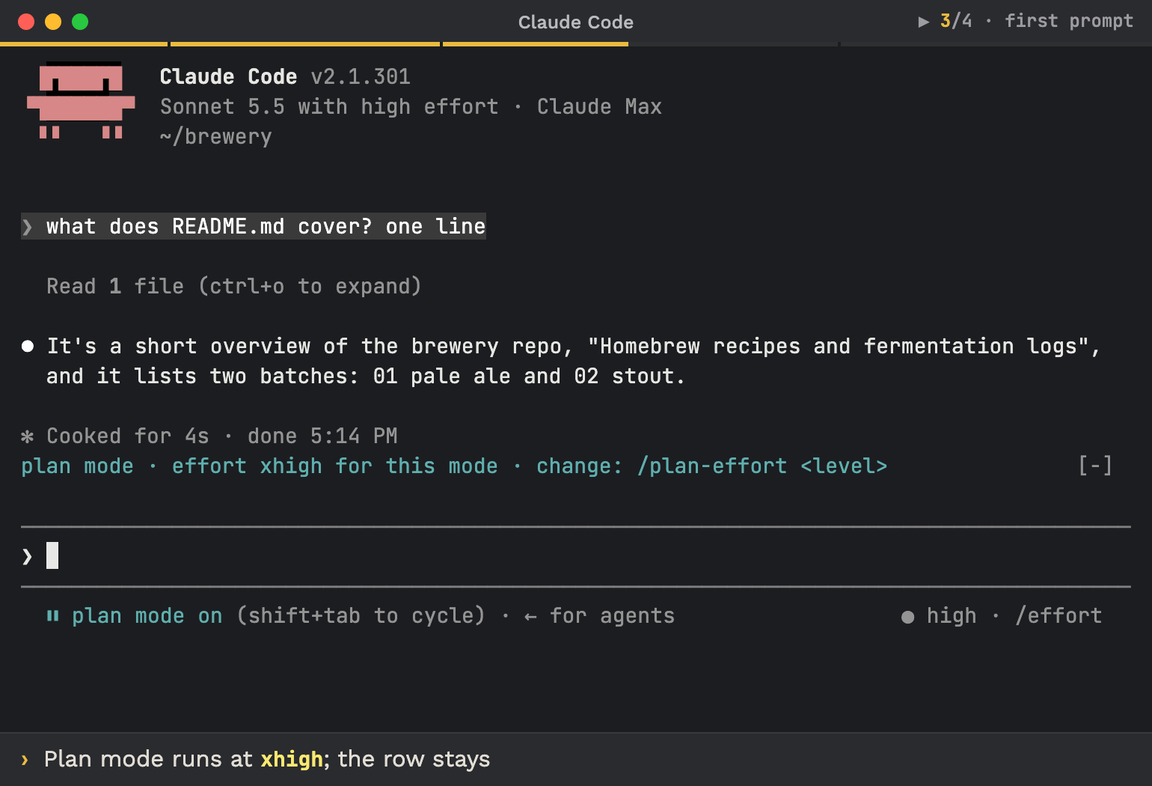
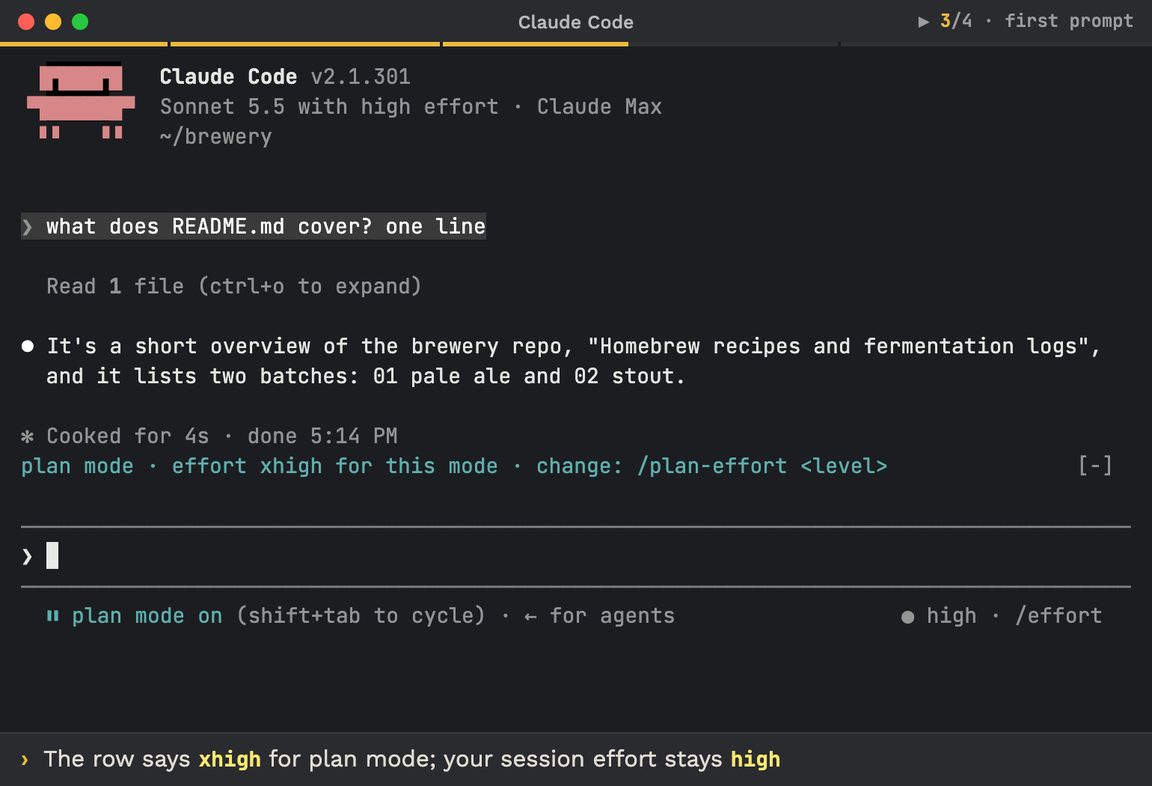
fix(mods): lighter bottle GIFs, frame glitches removed, captions match frames

Changed region(s): [[0.0312, 0.9466, 0.6875, 0.9771]]

diff --git a/assets/brewmods/src/render.html b/assets/brewmods/src/render.html
@@ -78,10 +78,12 @@ body { width: 1200px; font: 400 16px/1.5 "Work Sans", system-ui, sans-serif; }
   const esc = (s) => s.replace(/&/g, '&amp;').replace(/</g, '&lt;').replace(/>/g, '&gt;');
   const TAU = Math.PI * 2;
   const last = (list, t) => list.reduce((k, e, i) => (t >= (Array.isArray(e) ? e[0] : e.at) ? i : k), -1);
+  // in-range t untouched: ((t % L) + L) % L turns 14.4 into 14.3999…, drawing every change point a frame late
+  const wrap = (t, L) => (t >= 0 && t < L ? t : ((t % L) + L) % L);
   const isBottle = qs.get('bottle') === '1';
 
   // ---------- fermenter: glass carboy, amber wort, krausen, airlock (README bottle only) ----------
-  // cfg: loop s, fps, intensity(t), blips (airlock times), label(t) -> { word, shown, wipe 0..1 }
+  // cfg: loop s, fps, intensity(t), blips (airlock times), word (tape label text), labelWidth
   function fermenter(fpre, cfg) {
     const FC = 60, FR = 47, C = 30, RAMP_W = ['·', '-', '~', '~', '=', '≈', '≈', '*'], LOOP = cfg.loop, W0 = TAU / LOOP;
     const GL = new Array(FC * FR).fill(''), GK = new Array(FC * FR).fill(''), IN = [];
@@ -105,10 +107,12 @@ body { width: 1200px; font: 400 16px/1.5 "Work Sans", system-ui, sans-serif; }
     for (let c = C - 4; c <= C + 4; c++) gput(22, c, c === C ? '|' : '█', c === C ? 'gb' : 'ru');
     for (let r = 34; r <= 41; r++) gput(r, C - 16, '¦', 'gh');
     gput(29, C + 10, '\\', 'gh'); gput(30, C + 12, '\\', 'gh');
-    const SURF = 67.4, BOT = 89, LABW = cfg.labelWidth;
+    const SURF = 67.4, BOT = 89, LABW = cfg.labelWidth, GRAIN = 3;
 
     return function ferment(t) {
-      const I = cfg.intensity(t), Ic = Math.min(1, I), fr = Math.floor(t * cfg.fps);
+      // gr = grain tick: wort/krausen/trub/airlock noise re-rolls every GRAIN frames; waves at 0.4-0.6 Hz, not
+      // near the 3 Hz Nyquist of 6 fps, where they flickered every cell each frame (bottle GIF bytes)
+      const I = cfg.intensity(t), Ic = Math.min(1, I), gr = Math.floor(Math.floor(t * cfg.fps) / GRAIN);
       const head = 3.2 + 5 * Ic + 1.6 * Math.max(0, I - 1) / .35;
       const ch = GL.slice(), cl = GK.slice();
       const set = (r, c, s, k) => { if (r >= 0 && r < FR && c >= 0 && c < FC) { ch[r * FC + c] = s; cl[r * FC + c] = k; } };
@@ -117,18 +121,18 @@ body { width: 1200px; font: 400 16px/1.5 "Work Sans", system-ui, sans-serif; }
         for (let c = a; c <= b; c++) {
           if (GL[r * FC + c]) continue;
           const y = r * 2 + 1, x = c - C, nx = x / 18;
-          const surf = SURF + .45 * Math.sin(c * .5 + t * W0 * 15);
-          const top = surf - head - 1.1 * rnd(c * 3.1) - .9 * Math.sin(c * .7 + t * W0 * 8 + rnd(c) * 6) - .9 * Ic * rnd(c + 50);
+          const surf = SURF + .45 * Math.sin(c * .5 + t * W0 * 3);
+          const top = surf - head - 1.1 * rnd(c * 3.1) - .9 * Math.sin(c * .7 + t * W0 * 2 + rnd(c) * 6) - .9 * Ic * rnd(c + 50);
           if (y >= surf) {
             const depth = clamp((y - surf) / (BOT - surf));
             let l = (.52 + .4 * (1 - nx * nx) - .14 * nx) * (1 - .4 * depth);
-            l += .1 * Math.sin(y * .34 - t * W0 * 12 + nx * 2.2) + .12 * Ic * (1 - depth) + (rnd(c * 7.3 + r * 31 + fr * 13.1) - .5) * .1;
+            l += .1 * Math.sin(y * .34 - t * W0 * 3 + nx * 2.2) + .12 * Ic * (1 - depth) + (rnd(c * 7.3 + r * 31 + gr * 13.1) - .5) * .1;
             l = clamp(l);
-            if (r >= 44) set(r, c, rnd(c + fr * 3) < .5 ? '%' : '#', 'tr');
+            if (r >= 44) set(r, c, rnd(c + gr * 3) < .5 ? '%' : '#', 'tr');
             else if (y - surf < 1.6) set(r, c, '~', 'w4');
             else set(r, c, RAMP_W[Math.min(7, Math.floor(l * 8))], l < .34 ? 'w1' : l < .56 ? 'w2' : l < .8 ? 'w3' : 'w4');
           } else if (y >= top - .8) {
-            const n = rnd(c * 17.3 + r * 131.7 + Math.floor(t * 3) * 7), d = y - top;
+            const n = rnd(c * 17.3 + r * 131.7 + gr * 7), d = y - top;
             const s = d < .6 ? (n < .5 ? '·' : '°') : d < 2 ? (n < .5 ? 'o' : '°') : n < .4 ? 'O' : n < .9 ? 'o' : '@';
             set(r, c, s, d < 1.2 ? 'f3' : surf - y < 1.8 ? 'f1' : 'f2');
           }
@@ -147,7 +151,7 @@ body { width: 1200px; font: 400 16px/1.5 "Work Sans", system-ui, sans-serif; }
       for (const b of cfg.blips) { const dt = (t - b + LOOP) % LOOP; if (dt < .55) lift = Math.max(lift, Math.sin(Math.PI * dt / .55)); }
       const bell = lift > .66 ? [15, '_'] : lift > .25 ? [16, '-'] : [16, '_'];
       for (let c = C - 2; c <= C + 2; c++) set(bell[0], c, bell[1], 'gb');
-      for (const c of [C - 3, C - 2, C - 1, C + 1, C + 2, C + 3]) set(18, c, lift > .25 && c < C ? '~' : (fr + c) % 4 ? '≈' : '~', 'aw');
+      for (const c of [C - 3, C - 2, C - 1, C + 1, C + 2, C + 3]) set(18, c, lift > .25 && c < C ? '~' : (gr + c) % 4 ? '≈' : '~', 'aw');
       if (lift > .25) for (const c of [C + 1, C + 2, C + 3]) set(17, c, '~', 'aw');
       for (const [bi, b] of cfg.blips.entries()) {
         const dt = (t - b + LOOP) % LOOP;
@@ -160,12 +164,11 @@ body { width: 1200px; font: 400 16px/1.5 "Work Sans", system-ui, sans-serif; }
         }
       }
       // masking-tape label: the story's token written on it
-      const LR = 39, L0 = C - Math.floor(LABW / 2), lab = cfg.label(t);
+      const LR = 39, L0 = C - Math.floor(LABW / 2);
       for (let k = 0; k < LABW; k++) {
-        const s = k < lab.shown && k < lab.word.length ? lab.word[k] : ' ';
+        const s = k < cfg.word.length ? cfg.word[k] : ' ';
         set(LR, L0 + k, s === ' ' ? '·' : s, s === ' ' ? 'lb0' : 'lb');
       }
-      if (lab.wipe > 0) for (let k = 0; k < LABW; k++) if (rnd(k + fr) < lab.wipe) set(LR, L0 + k, '·', 'lb0');
       let html = '';
       for (let r = 3; r < FR; r++) {
         let cur = null;
@@ -189,10 +192,10 @@ body { width: 1200px; font: 400 16px/1.5 "Work Sans", system-ui, sans-serif; }
     $('bottle').setAttribute('aria-label', `ASCII glass fermenter bubbling, label "${B.label}"`);
     const blips = Array.from({ length: B.blips }, (_, i) => +(i * LOOP / B.blips + .2).toFixed(3));
     const ferment = fermenter($('ferm'), { loop: LOOP, fps: B.fps, blips, labelWidth: word.length + 2,
-      intensity: (t) => .82 + .18 * Math.sin(TAU * t / LOOP), label: () => ({ word, shown: word.length, wipe: 0 }) });
-    window.hero = { render: (t) => ferment(((t % LOOP) + LOOP) % LOOP), fps: B.fps, loop: LOOP };
+      intensity: (t) => .82 + .18 * Math.sin(TAU * t / LOOP), word });
+    window.hero = { render: (t) => ferment(wrap(t, LOOP)), fps: B.fps, loop: LOOP };
     const freeze = qs.get('t');
-    ferment(freeze !== null ? parseFloat(freeze) % LOOP : 0);
+    ferment(freeze !== null ? wrap(parseFloat(freeze), LOOP) : 0);
     if (freeze !== null) return;
     const t0 = performance.now(); let lastF = -1;
     (function tick(now) {
@@ -248,52 +251,65 @@ body { width: 1200px; font: 400 16px/1.5 "Work Sans", system-ui, sans-serif; }
   const isRule = (segs) => /^─{8,}$/.test(plain(segs).trim());
   // prompt row = the last `❯` row that sits under a rule
   const promptRow = (lines) => { for (let r = lines.length - 1; r > 0; r--) if (plain(lines[r]).startsWith('❯') && isRule(lines[r - 1])) return r; return -1; };
+  // captured prompt row cut to `len` chars, styles kept; a styled token cut midway is drawn plain until complete
+  function cutRow(segs, len) {
+    const out = [];
+    let col = 0;
+    for (const [text, style] of segs) {
+      const cs = [...text], k = Math.min(cs.length, len - col);
+      if (k <= 0) break;
+      out.push([cs.slice(0, k).join(''), k < cs.length ? '' : style]);
+      col += k;
+    }
+    return out;
+  }
 
   function screenAt(t) {
     const i = last(S.screens, t), [, name, beat] = S.screens[Math.max(0, i)];
     let ov = null;
     for (const ty of S.typing) {
-      const n = Math.min([...ty.text].length, (ty.from || 0) + Math.floor((t - ty.at) * ty.cps) + 1);
+      // 1e-6: (14.5 - 14.4) * 40 = 3.99…, one char short at an exact frame boundary
+      const n = Math.min([...ty.text].length, (ty.from || 0) + Math.floor((t - ty.at) * ty.cps + 1e-6) + 1);
       const nextScreen = S.screens.find((s) => s[0] > ty.at && s[1] !== ty.on);
       if (t >= ty.at && (!nextScreen || t < nextScreen[0])) ov = { on: ty.on, text: [...ty.text].slice(0, n).join('') };
     }
     return ov ? { name: ov.on, beat: (S.screens.find((s) => s[1] === ov.on) || [, , beat])[2], typed: ov.text } : { name, beat, typed: null };
   }
 
-  let shownKey = '', shownRow = ROWS - 4;
+  // keycap row: prompt row of the screen shown at t, ROWS - 4 when it has none (dialog, TODO screen)
+  const rowAt = (t) => { const sc = D[screenAt(t).name], pr = sc && typeof sc === 'object' ? promptRow(sc.lines) : -1; return pr < 0 ? ROWS - 4 : pr; };
+
+  let shownKey = '';
   function terminal(t) {
     const st = screenAt(t), sc = D[st.name];
     const key = st.name + '|' + st.typed;
-    if (key === shownKey) return shownRow;
+    if (key === shownKey) return;
     shownKey = key;
-    let html = '', pr = -1;
+    let html = '';
     if (!sc || typeof sc === 'string') {
       const mark = typeof sc === 'string' ? sc : `TODO-CAPTURE:${st.beat}`;
-      pr = ROWS - 4;
       for (let r = 0; r < ROWS; r++) {
         if (r === 10) html += `<div class="row todo">${esc(mark)}  ·  screen ${esc(st.name)}</div>`;
         else if (r === 11) html += '<div class="row todo-dim">capture it: bash assets/brewmods/src/capture.sh &lt;pane&gt; ' + esc(st.name) + '</div>';
-        else if (r === pr) html += rowHtml([['❯ ' + (st.typed ?? ''), '']], st.typed !== null ? 2 + [...st.typed].length : -1);
+        else if (r === ROWS - 4) html += rowHtml([['❯ ' + (st.typed ?? ''), '']], st.typed !== null ? 2 + [...st.typed].length : -1);
         else html += '<div class="row"></div>';
       }
     } else {
-      pr = promptRow(sc.lines);
-      const cur = sc.cursor && sc.cursor[2] ? sc.cursor : null;
+      const pr = promptRow(sc.lines), cur = sc.cursor && sc.cursor[2] ? sc.cursor : null;
       sc.lines.forEach((segs, r) => {
-        if (st.typed !== null && r === pr) html += rowHtml([['❯ ' + st.typed, '']], 2 + [...st.typed].length);
+        // typing: the capture's own prompt row (= ❯ + typed text, gated by --check) cut to the typed prefix
+        if (st.typed !== null && r === pr) { const len = 2 + [...st.typed].length; html += rowHtml(cutRow(segs, len), len); }
         else html += rowHtml(segs, st.typed === null && cur && cur[1] === r ? cur[0] : -1);
       });
     }
     $('term').innerHTML = html;
-    shownRow = pr < 0 ? ROWS - 4 : pr;
-    return shownRow;
   }
 
   // ---------- title bar: chapter label, progress, ⏩ chip; caption bar; keycap ----------
   const fill = $('progFill'), chap = $('chap'), chip = $('chip'), cap = $('cap'), capText = $('capText'), kbd = $('kbd');
   S.chapters.slice(1).forEach(([s]) => { const g = document.createElement('div'); g.className = 'gap'; g.style.left = (s / END * 100) + '%'; $('prog').appendChild(g); });
   let shownChap = '', shownCap = null, shownKbd = '';
-  function chrome(t, full, row) {
+  function chrome(t, full) {
     const i = Math.max(0, last(S.chapters, t)), done = !full && t >= END;
     fill.style.width = (full ? 100 : clamp(t / END) * 100).toFixed(2) + '%';
     fill.style.opacity = !full && t > LOOP - .3 ? ((LOOP - t) / .3).toFixed(3) : 1;
@@ -310,12 +326,15 @@ body { width: 1200px; font: 400 16px/1.5 "Work Sans", system-ui, sans-serif; }
     const kd = k ? esc(k.glyph) + (k.word ? '<small>' + esc(k.word) + '</small>' : '') : '';
     if (kd !== shownKbd) { shownKbd = kd; kbd.innerHTML = kd; }
     kbd.style.opacity = k ? (1 - span(t, k.at + .55, k.at + .8)).toFixed(3) : 0;
+    if (!k) return;
+    // pinned to the screen at the key press for the cap's whole 0.8 s life (no jump when the screen changes)
+    const row = rowAt(k.at);
     kbd.style.left = (W - 18 - kbd.offsetWidth) + 'px';
     kbd.style.top = Math.min(TB + TERM_H - 46, Math.max(TB + 4, TB + PADT + row * LH + LH / 2 - 21)) + 'px';
   }
 
   let full = false;
-  function frame(t) { t = ((t % LOOP) + LOOP) % LOOP; chrome(t, full, terminal(t)); }
+  function frame(t) { t = wrap(t, LOOP); terminal(t); chrome(t, full); }
   window.hero = { render: frame, fps: FPS, loop: LOOP, steps: S.chapters.map((s) => [s[0], s[1]]) };
   const freeze = qs.get('t'), reduce = matchMedia('(prefers-reduced-motion: reduce)').matches;
   const still = freeze !== null || reduce, TS = freeze !== null ? parseFloat(freeze) : S.still;

diff --git a/assets/brewmods/src/placeholders.story.js b/assets/brewmods/src/placeholders.story.js
@@ -2,7 +2,7 @@
 // Keys = macOS keycaps (glyph + on-screen word); record-gifs.mjs --check holds them to its allow-list and the facts below. Times in s.
 window.PH_STORY = {
   term: { cols: 88, rows: 30 },
-  aria: 'Claude Code terminal recorded from a real session: typing ++ opens the placeholder list, Up picks ++r and Tab inserts it; the band above the prompt shows the lines Claude receives; Enter sends and Claude reviews the diff by the ++r rules: a finding at brew.js:11, reproduced, then fixed with a test. /placeholders global add ++db: always use the staging DB saves a new placeholder after one question. In plan mode the caret on ++db shows its text, Enter sends and Claude answers "Run it against the staging DB, per your ++db rule". Then ++db ++m in one prompt: the caret on ++m shows its text plus the teal "plan mode adds:" part; adding ++/ turns placeholders off so the message is sent exactly as typed',
+  aria: 'Claude Code terminal recorded from a real session: typing ++ opens the placeholder list, Up picks ++r and Tab inserts it; the band above the prompt shows the lines Claude receives; Enter sends and Claude reviews the diff by the ++r rules: a finding at brew.js:11, reproduced, then fixed with a test. /placeholders global add ++db: always use the staging DB saves a new placeholder after one question. In plan mode the caret on ++db shows its text, Enter sends and Claude answers "Run it against the staging DB, as your ++db rule says." Then ++db ++m in one prompt: the caret on ++m shows its text plus the teal "plan mode adds:" part; adding ++/ turns placeholders off so the message is sent exactly as typed',
   loop: 35.8, end: 35.0, fps: 10, still: 29.5,
   chapters: [[0, 'pick'], [3.6, 'see it'], [7.2, 'send'], [13.8, 'add your own'], [19.0, 'plan mode'], [26.4, 'two tokens'], [31.8, '++/']],
   // [from, screen, beat]: the captured screen shown from `from` on; beat names the TODO-CAPTURE slot
@@ -34,12 +34,12 @@ window.PH_STORY = {
     [31.8, 'h-23-esc', 'escape'],
     [35.2, 'h-00-start', 'pick'],
   ],
-  // prompt-row overlay while typing: `on` = capture after the typed text, prompt row cut to the typed prefix; `from` = chars already typed.
-  // ++db, ++m and ++/ land as whole captures (h-17-qdb, h-21-pdb, h-22-pm, h-23-esc): the band changes only once a token is complete
+  // typing: `on` = capture after the typed text, its prompt row cut to the typed prefix; `from` = chars already typed. A token lands whole (band changes
+  // only once complete): ++db/++m/++/ as captures (h-17-qdb, h-21-pdb, h-22-pm, h-23-esc), or from: 28 (`add ++db` at once over h-09-typed's ++db band)
   typing: [
     { at: 0.3, text: 'review the diff +', cps: 16, on: 'h-01-plus' },
     { at: 13.8, text: '/placeholders global add', cps: 40, on: 'h-08-cmd' },
-    { at: 14.4, text: '/placeholders global add ++db: always use the staging DB', from: 24, cps: 40, on: 'h-09-typed' },
+    { at: 14.4, text: '/placeholders global add ++db: always use the staging DB', from: 28, cps: 40, on: 'h-09-typed' },
     { at: 20.2, text: 'which DB should I run the migration against? one line ', cps: 40, on: 'h-16-q' },
     { at: 26.4, text: 'plan the users table migration ', cps: 40, on: 'h-20-plan' },
   ],
@@ -55,7 +55,7 @@ window.PH_STORY = {
     { at: 19.6, glyph: '⇧⇥', word: 'shift+tab' },
     { at: 23.0, glyph: '⏎', word: 'enter' },
   ],
-  // compressed spans: title-bar chip `⏩ <factor>x`; factor = real seconds in the span (session transcript timestamps) / shown seconds.
+  // compressed spans: title-bar chip `⏩ <factor>x`; factor = real seconds in the span (transcript rows: placeholders.captures/timings.txt) / shown seconds.
   // send 14.51 s (prompt 16:20:59.540 -> text 16:21:14.049; h-06b-repro at ~7.3 s), dialog 3.31 s, save 2.83 s (answer -> text), plan-mode answer 4.67 s; spans start 0.2-0.4 s after Enter
   skips: [
     { at: 7.6, until: 9.6, factor: 7.1 },

diff --git a/assets/brewmods/src/plan-effort.story.js b/assets/brewmods/src/plan-effort.story.js
@@ -35,7 +35,7 @@ window.PH_STORY = {
     [1.6, '<k>⇧⇥</k> once: accept edits'],
     [3.2, '<k>⇧⇥</k> again: plan mode; no row until the first prompt'],
     [8.4, '<k>⏎</k>: toast, and the teal plan-mode row above the prompt'],
-    [11.2, 'Plan mode runs at <k>xhigh</k>; the row stays'],
+    [10.2, 'The row says <k>xhigh</k> for plan mode; your session effort stays <k>high</k>'],
     [16, '<k>⇧⇥</k> out of plan mode: the row is gone'],
     [22, ''],
     [22.2, 'Manual mode, session effort <k>high</k>'],
@@ -50,6 +50,8 @@ window.PH_STORY = {
     { screen: 'pe-4-toast', has: 'brewmod-plan-effort: plan mode · effort raised to xhigh', why: 'toast (register.ts), engine adds the plugin name' },
     { screen: 'pe-4-toast', has: 'plan mode · effort xhigh for this mode · change: /plan-effort <level>', why: 'row (register.ts)' },
     { screen: 'pe-5-done', has: 'plan mode · effort xhigh for this mode · change: /plan-effort <level>', why: 'row stays after the turn' },
+    { screen: 'pe-5-done', has: '● high · /effort', why: 'footer keeps the session effort (caption from 10.2, when the toast is gone)' },
+    { screen: 'pe-5-done', lacks: 'effort raised to xhigh', why: 'toast gone: the toast caption ends at 10.2' },
     { screen: 'pe-6-out', has: '⏵⏵ auto mode on (shift+tab to cycle)', why: 'Shift+Tab out of plan' },
     { screen: 'pe-6-out', lacks: 'plan mode · effort', why: 'row gone' },
   ],

diff --git a/assets/brewmods/src/placeholders-full-text.story.js b/assets/brewmods/src/placeholders-full-text.story.js
@@ -2,7 +2,7 @@
 // Same renderer and gates as placeholders.story.js; window = this story's loop bounds for record-gifs.mjs --check.
 window.PH_STORY = {
   term: { cols: 88, rows: 30 },
-  aria: 'Claude Code prompt: type ++m and the caret on it shows the lines Claude receives, cut to fit with a "... more lines · whole text: /placeholders show ++m or ++m? alone [Enter]" row; type ? to make ++m?, Enter fills the box with /placeholders show ++m and sends nothing to Claude, Enter again prints the whole ++m text in the chat; scrolled up it starts with "++m · full text as sent"',
+  aria: 'Claude Code prompt: type ++m and the caret on it shows the lines Claude receives, cut to fit with a "... 16 more lines · whole text: /placeholders show ++m or ++m? alone [Enter]" row; type ? to make ++m?, Enter fills the box with /placeholders show ++m and sends nothing to Claude, Enter again prints the whole ++m text in the chat; scrolled up it starts with "++m · full text as sent"',
   window: [20, 30],
   loop: 24, end: 23, fps: 10, still: 4,
   chapters: [[0, 'type ++m'], [2.0, 'cut to fit'], [8.0, '++m?'], [10.5, 'enter'], [14.5, 'enter again']],

diff --git a/assets/brewmods/src/README.md b/assets/brewmods/src/README.md
@@ -4,24 +4,24 @@ One renderer, one story per GIF. `render.html?story=<name>` renders `#hero` (ter
 
 | Story | GIF | Terminal | Loop |
 |---|---|---|---|
-| `placeholders` | hero, usage first: `++` list, `↑` `⇥` insert `++r`, the band, send; one quick `/placeholders global add ++db`; plan mode: caret on `++db`, send; `++db ++m` with the teal plan part; `++/` | 88x30 | 35.6 s |
+| `placeholders` | hero, usage first: `++` list, `↑` `⇥` insert `++r`, the band, send; one quick `/placeholders global add ++db`; plan mode: caret on `++db`, send; `++db ++m` with the teal plan part; `++/` | 88x30 | 35.8 s |
 | `placeholders-full-text` | `++m` cut row -> `++m?` -> Enter fills `/placeholders show ++m` -> Enter prints | 88x30 | 24 s |
 | `plan-effort` | Shift+Tab into plan mode, first prompt: toast + teal row, Shift+Tab out | 88x22 | 23 s |
 
 | Step | Command (repo root unless noted) |
 |---|---|
-| Capture | cwd `~/brewery`, `unset CLAUDECODE`, `CLAUDE_CODE_DISABLE_CLAUDE_MDS=1 CLAUDE_CODE_DISABLE_AUTO_MEMORY=1`, mod copies whose global layer is a scratch dir: `tmux new -d -s ph -x 88 -y 30 'claude --setting-sources project,local --strict-mcp-config --permission-mode default --allowedTools Bash Read Grep Glob --settings {"tui":"default","promptSuggestionEnabled":false,"spinnerTipsEnabled":false} --plugin-dir <mod>...'` (main-screen TUI; no ghost suggestion or spinner tip rows; no approval dialog mid-turn; no `--debug`; `--safe-mode` disables plugins; tmux `focus-events on`). Per key `tmux send-keys -t ph <key>`, then `bash assets/brewmods/src/capture.sh ph <screen> assets/brewmods/src/<name>.captures` (names: `screens` in the story). `PH_SCROLL_UP=<n>` = the view `n` rows up the scrollback (a scrolled terminal, caret hidden); `PH_TMUX_SOCKET` = `tmux -L` name |
+| Capture | cwd `~/brewery`, `unset CLAUDECODE`, `CLAUDE_CODE_DISABLE_CLAUDE_MDS=1 CLAUDE_CODE_DISABLE_AUTO_MEMORY=1`, mod copies whose global layer is a scratch dir: `tmux new -d -s ph -x 88 -y <story.term.rows> 'claude --setting-sources project,local --strict-mcp-config --permission-mode default --allowedTools Bash Read Grep Glob Edit Write --settings {"tui":"default","promptSuggestionEnabled":false,"spinnerTipsEnabled":false} --plugin-dir <mod>...'` (`-y` 30; plan-effort `-y 22` plus `--model sonnet --effort high`; main-screen TUI; no ghost suggestion or spinner tip rows; `Edit Write` because the hero turn fixes `brew.js`, so no approval dialog mid-turn; no `--debug`; `--safe-mode` disables plugins; tmux `focus-events on`). Per key `tmux send-keys -t ph <key>`, then `bash assets/brewmods/src/capture.sh ph <screen> assets/brewmods/src/<name>.captures` (names: `screens` in the story). `PH_SCROLL_UP=<n>` = the view `n` rows up the scrollback (a scrolled terminal, caret hidden); `PH_TMUX_SOCKET` = `tmux -L` name |
 | Embed | `node assets/brewmods/src/record-gifs.mjs <name> --embed` |
 | Preview | From the record dir: `node <repo>/assets/brewmods/src/record-gifs.mjs <name> --preview 7.5` (PNG in the tmp dir; `--width <px>` for another size) |
-| Record | `cd "$(mktemp -d)" && npm i playwright-core@1.64.0 --no-package-lock && node <repo>/assets/brewmods/src/record-gifs.mjs <name>`: writes `../<name>.gif`, `../<name>-still.png` (frame at `still`), `../<name>-bottle.gif`, copies the GIF and the still to `web/docs/public/brewmods/`, writes `<name>.manifest.json`. `--out <dir>` = test run that touches nothing |
+| Record | `cd "$(mktemp -d)" && npm i playwright-core@1.64.0 --no-package-lock && node <repo>/assets/brewmods/src/record-gifs.mjs <name>`: writes `../<name>.gif`, `../<name>-still.png` (frame at `still`), `../<name>-bottle.gif`, copies the GIF (not the still: unreferenced there, gitignored by `*.png`) to `web/docs/public/brewmods/`, writes `<name>.manifest.json`. `--out <dir>` = test run that touches nothing |
 | Check | `node assets/brewmods/src/record-gifs.mjs <name> --check` (node only); rc 0 = no FAIL |
 
 Record needs ffmpeg, gifsicle, Google Chrome and network (Google Fonts); about 70 s per story.
 
-Size: the frame is the terminal window, `cols x 8.4 + 30` CSS px wide (88 cols: 768), drawn at 2x and saved 1152 px wide (1.5x, sharp on HiDPI at the 700-800 px the docs and GitHub show it). Text reads at 13-15 px there. The docs rule `.prose p[align='center'] img { max-height: min(55vh, 480px) }` shrinks a 30-row frame to 540 px wide: lift it for these GIFs. The bottle is 420 px wide, at most 1 MB, a 5 s loop.
+Size: the frame is the terminal window, `ceil(cols x 8.4) + 30` CSS px wide (88 cols: 770), drawn at 2x and saved 1152 px wide (1.5x, sharp on HiDPI at the 700-800 px the docs and GitHub show it). Text reads at 13-15 px there. The docs cap `.prose p[align='center'] img { max-height: min(55vh, 480px) }` would shrink a 30-row frame to 540 px wide; `web/docs/src/styles/global.css` lifts it for `/brewmods/*.gif` (not `hub.gif`). The bottle is 420 px wide (README shows it at 200-260 px), a 5 s loop at 6 fps; its grain re-rolls every 3rd frame and its waves stay slow, so the encode ladder stops near 0.45 MB (`BOTTLE_TARGET`), hard cap 1 MB.
 
-`--check` gates: loop inside the story's `window` (default 30-38 s); keycaps only from the macOS allow-list (`⇥ tab`, `⏎ enter`, `⎋ esc`, arrows, `⌫ delete`, `⇧⇥ shift+tab`, `⌃O ctrl+o`); no `hover`, `2.1.296`, `Backspace`, `⌘`, Cyrillic; no `TODO-CAPTURE`; `story.bottle` set; every story fact true on its captured screen (`has` present, `lacks` absent); data equal to a fresh `--embed`; captures at `story.term`, ANSI text equal to the plain capture, no home/tmp paths, debug or `Plugins updated` rows, no old dialog wording (`(global) as drafted`, `do not ask where`), no error rows (`no matches found`, `command not found`, Traceback, `*Error`; WARN on `unknown placeholder`); GIF inside the window, 1152 px wide, at most 5 MB (WARN above 3.5 MB), recorded from the current sources (`<name>.manifest.json`); still and bottle equal to the manifest; one sha256 for the repo and docs copies of the GIF and of the still (WARN while `../brewcode-app/site/main/public/mods/<name>.gif` differs, override `BREWCODE_APP_DIR`). Record adds seam SSIM >= 0.985, bottle <= 1 MB and 0 page errors.
+`--check` gates: loop inside the story's `window` (default 30-38 s); keycaps only from the macOS allow-list (`⇥ tab`, `⏎ enter`, `⎋ esc`, arrows, `⌫ delete`, `⇧⇥ shift+tab`, `⌃O ctrl+o`); no `hover`, `2.1.296`, `Backspace`, `⌘`, Cyrillic; no `TODO-CAPTURE`; `story.bottle` set; every story fact true on its captured screen (`has` present, `lacks` absent); every `"quote"` in `story.aria` on a captured screen; data equal to a fresh `--embed`; each typing screen's prompt row reads `❯` + the typed text; captures at `story.term`, ANSI text equal to the plain capture, no home/tmp paths, debug or `Plugins updated` rows, no old dialog wording (`(global) as drafted`, `do not ask where`), no error rows (`no matches found`, `command not found`, Traceback, `*Error`; WARN on `unknown placeholder`); GIF inside the window, 1152 px wide, at most 5 MB (WARN above 3.5 MB), recorded from the current sources (`<name>.manifest.json`); still and bottle equal to the manifest; one sha256 for the repo and docs copies of the GIF (WARN while `../brewcode-app/site/main/public/mods/<name>.gif` differs, override `BREWCODE_APP_DIR`). Record adds seam SSIM >= 0.985, bottle <= 1 MB (target 0.45 MB) and 0 page errors.
 
-Rules: draw only captured rows and proven keys; if the real flow needs another key, add its keycap and its capture. Typing frames reuse the screen captured after the last typed key, prompt row cut to the typed prefix; a token lands as its own capture, since the band changes only once it is complete. Set each `⏩` factor from the session transcript: real seconds in the span / shown seconds.
+Rules: draw only captured rows and proven keys; if the real flow needs another key, add its keycap and its capture. Typing frames reuse the screen captured after the last typed key, its prompt row (styles kept) cut to the typed prefix; a token lands whole, as its own capture or via `from` when the capture's band already shows it, since the band changes only once it is complete. A keycap stays on the prompt row of the screen at its press. Captions change with the screen they describe. Set each `⏩` factor from the session transcript: real seconds in the span / shown seconds; keep the rows in `<name>.captures/timings.txt`.
 
-Publish: stable direct URLs, never renamed: `https://doc-claude.brewcode.app/brewmods/<name>.gif` (Record copies it) and `https://brewcode.app/mods/<name>.gif` plus `<name>-still.png` (copy by hand to `../brewcode-app/site/main/public/mods/`); embed under a stable page anchor (heading slug or `id`) so the link can go to a person. The bottle is for the READMEs only.
+Publish: stable direct URLs, never renamed: `https://doc-claude.brewcode.app/brewmods/<name>.gif` (Record copies it) and `https://brewcode.app/mods/<name>.gif` plus `<name>-still.png`, its reduced-motion poster (`ModDemo.astro`; copy both by hand to `../brewcode-app/site/main/public/mods/`); embed under a stable page anchor (heading slug or `id`) so the link can go to a person. The bottle is for the READMEs only.
